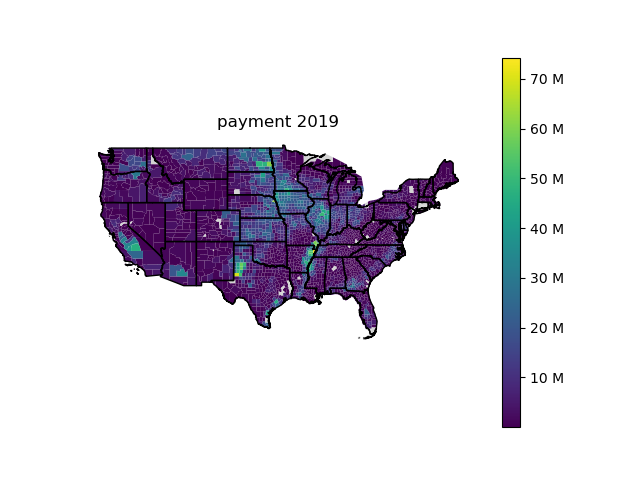
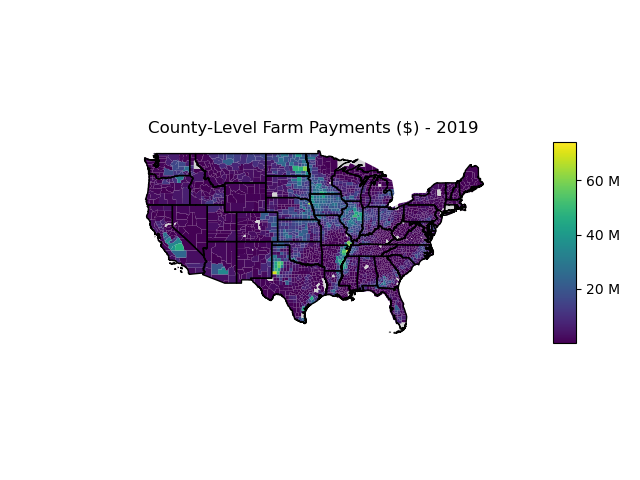
ppt fig gen

Changed region(s): [[0.1562, 0.2188, 0.75, 0.7188], [0.7812, 0.0938, 0.9688, 0.9062], [0.6875, 0.25, 0.75, 0.2812]]

diff --git a/code/VisualizationClass.py b/code/VisualizationClass.py
@@ -11,6 +11,7 @@ import time
 from utils import utils
 import itertools
 import geopandas as gpd
+from mpl_toolkits.axes_grid1 import make_axes_locatable
 
 ''' Abstract Parent Class '''
 class AbstractViz:
@@ -32,7 +33,10 @@ class AbstractViz:
         return df
 
     def test(self, **kwargs):
-        argmap = self._generate_argmap(**kwargs)
+        if kwargs:
+            argmap = [kwargs] 
+        else:
+            argmap = self._generate_argmap(**kwargs)
         fname = self.save(**argmap[0])
         print(f"args: {argmap[0]}, fname: {fname}, numargs: {len(argmap)}, path: {self.path}")
 
@@ -379,6 +383,11 @@ class USCountyMap(Map):
         df = df[['FIP', variable]] 
         df = df.compute()
 
+        titles = {
+            'payment': "Farm Payments ($)", 
+            'customer': "# of Payment Recipients",
+            'concentration': "$ per Recipient"
+        }
 
         config = {
             'legend': True,
@@ -402,11 +411,14 @@ class USCountyMap(Map):
 
         # Plot it
         fig, ax = plt.subplots()
+        divider = make_axes_locatable(ax)
+        cax = divider.append_axes('right', size='5%', pad=0.05)
         county_map.plot(ax=ax, 
+                        cax=cax,
                         column=variable,
                         **config)
         self.state_map.boundary.plot(ax=ax, color = 'black', linewidth=1)
-        ax.set_title(f"{variable} {year}")
+        ax.set_title(f"County-Level {titles[variable]} - {year}")
         ax.set_axis_off()
 
         return fig, ax, fname
@@ -538,5 +550,6 @@ class ProgramReference(Table):
 
 
 if __name__ == '__main__':
-    obj = ProgramReference()
-    obj.test()
+    obj = USCountyMap(load_data())
+    args = {'year': 2019, 'variable': 'payment'}
+    obj.test(**args)
